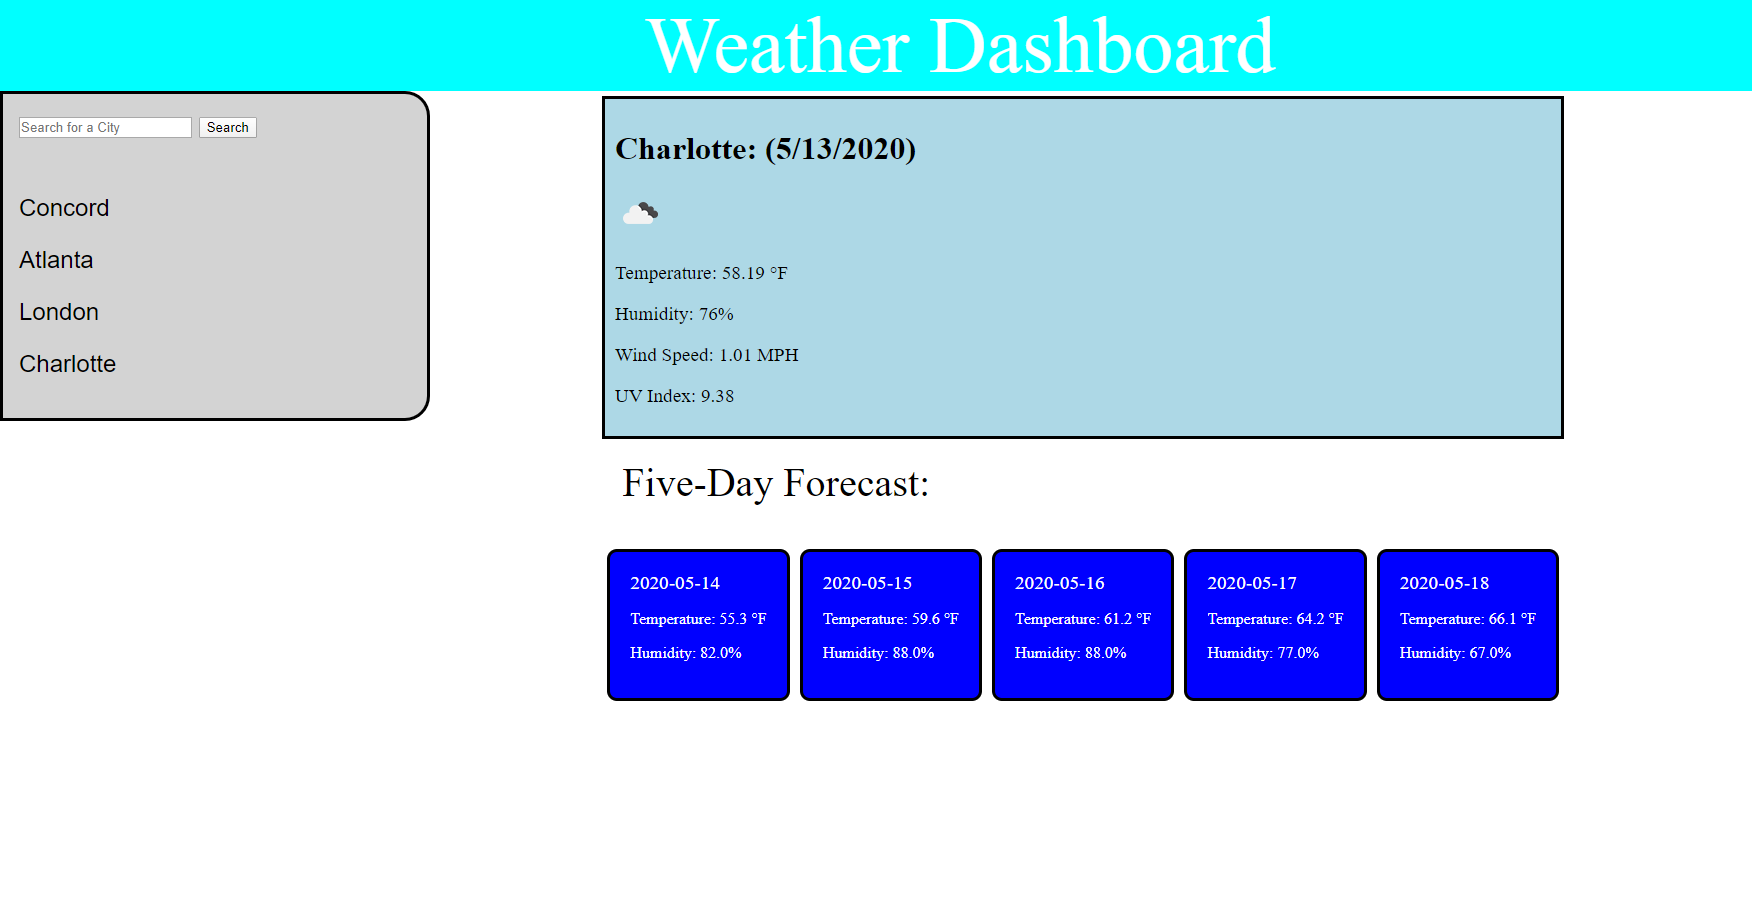
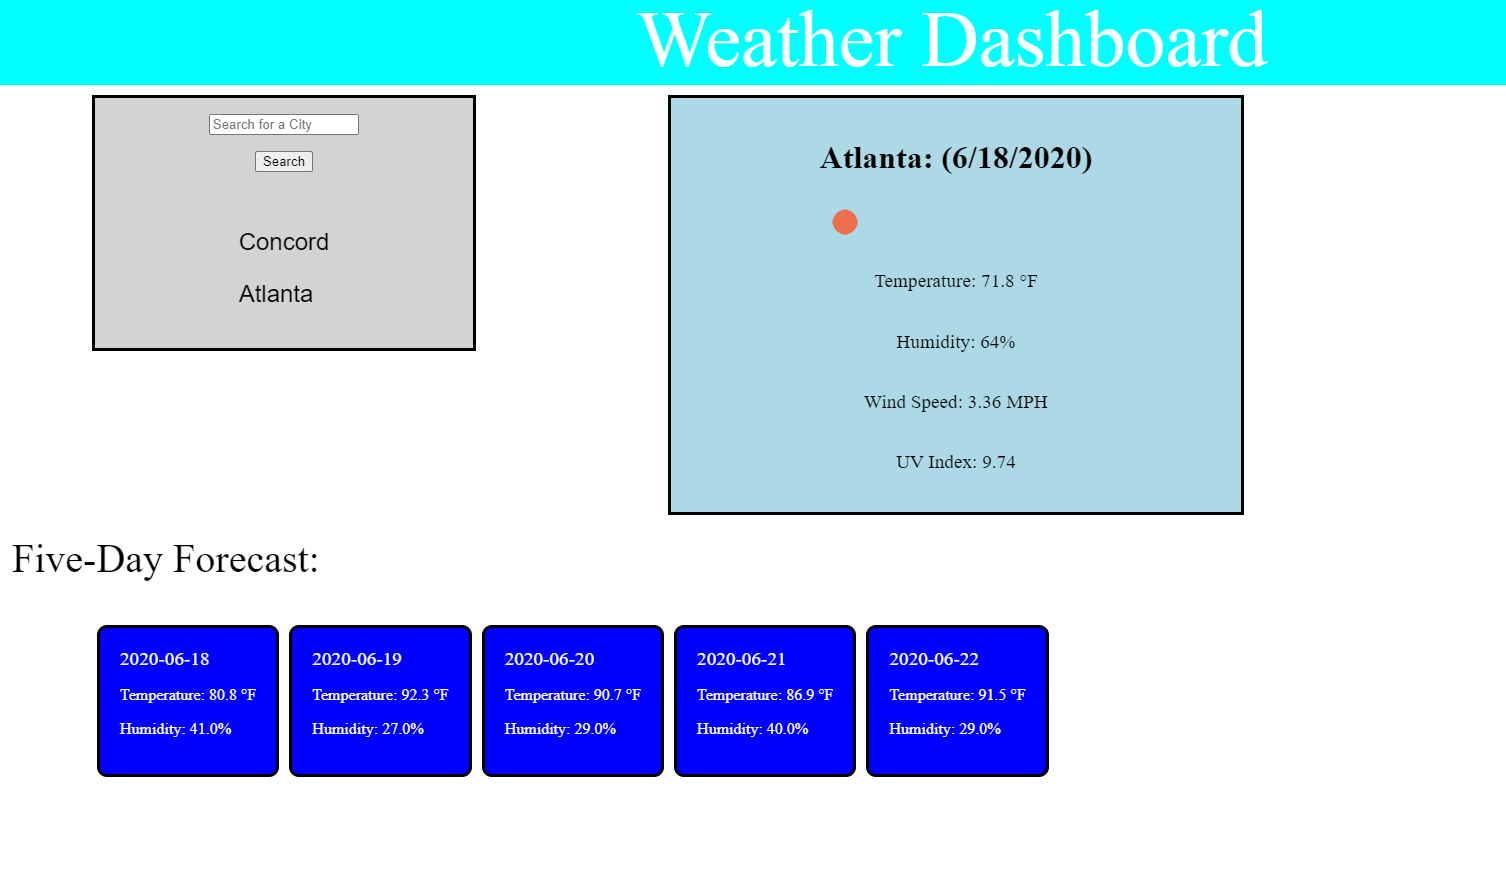
Changed some spacing.

diff --git a/index.html b/index.html
@@ -14,68 +14,66 @@
   <body>
     <!-- Div with header -->
     <div class="header">Weather Dashboard</div>
-        <!-- Left side of page -->
-      <div class="leftSide">
-        <!-- Search for a city form -->
-        <form>
-          <input
-            type="text"
-            name="city"
-            id="city"
-            placeholder="Search for a City"
-          />
-          <button type="submit">Search</button>
-        </form>
-        <!-- Div for where the search history will be -->
-        <div id="history"></div>
-      </div>
-      <!-- ==== Right side of the page ====== -->
-      <div class="rightSide">
-        <!-- div for the current weather -->
-        <div class="weatherCurrent">
-          <div class="cityCurrent"></div>
-            <div class="tempCurrent"></div>
-            <div class="humidityCurrent"></div>
-            <div class="windSpeedCurrent"></div>
-            <div class="uvCurrent"></div>
-        </div>
-          <!-- div for the fiveday forecast -->
-          <div class="fiveDay"></div> <br>
-          <div class="fiveDayBox">
-          <!-- Day 1 div -->
-            <div class="day1Box">
-            <div id="day1Date"></div>
-            <div class="temp5One"></div>
-            <div class="humidity5One"></div>
-            </div>
-            <!-- day 2 div -->
-            <div class="day2Box">
-              <div id="day2Date"></div>
-              <div class="temp5Two"></div>
-              <div class="humidity5Two"></div>
-              </div>
-            <!-- day 3 div -->
-            <div class="day3Box">
-              <div id="day3Date"></div>
-              <div class="temp5Three"></div>
-              <div class="humidity5Three"></div>
-              </div>
-              <!-- day 4 div -->
-              <div class="day4Box">
-                <div id="day4Date"></div>
-                <div class="temp5Four"></div>
-                <div class="humidity5Four"></div>
-                </div>
-                <!-- day 5 div -->
-                <div class="day5Box">
-                  <div id="day5Date"></div>
-                  <div class="temp5Five"></div>
-                  <div class="humidity5Five"></div>
-                  </div>
+    <!-- Left side of page -->
+    <div class="leftSide">
+      <!-- Search for a city form -->
+      <form>
+        <input
+          type="text"
+          name="city"
+          id="city"
+          placeholder="Search for a City"
+          class="input"
+        />
+        <button type="submit">Search</button>
+      </form>
+      <!-- Div for where the search history will be -->
+      <div id="history"></div>
+    </div>
+    <!-- div for the current weather -->
+    <div class="weatherCurrent">
+      <div class="cityCurrent"></div>
+      <div class="tempCurrent"></div>
+      <div class="humidityCurrent"></div>
+      <div class="windSpeedCurrent"></div>
+      <div class="uvCurrent"></div>
+    </div>
 
-          </div>
-          
+    <!-- div for the fiveday forecast -->
+    <div class="fiveDay"></div>
+    <br />
+    <div class="fiveDayBox">
+      <!-- Day 1 div -->
+      <div class="day1Box">
+        <div id="day1Date"></div>
+        <div class="temp5One"></div>
+        <div class="humidity5One"></div>
       </div>
+      <!-- day 2 div -->
+      <div class="day2Box">
+        <div id="day2Date"></div>
+        <div class="temp5Two"></div>
+        <div class="humidity5Two"></div>
+      </div>
+      <!-- day 3 div -->
+      <div class="day3Box">
+        <div id="day3Date"></div>
+        <div class="temp5Three"></div>
+        <div class="humidity5Three"></div>
+      </div>
+      <!-- day 4 div -->
+      <div class="day4Box">
+        <div id="day4Date"></div>
+        <div class="temp5Four"></div>
+        <div class="humidity5Four"></div>
+      </div>
+      <!-- day 5 div -->
+      <div class="day5Box">
+        <div id="day5Date"></div>
+        <div class="temp5Five"></div>
+        <div class="humidity5Five"></div>
+      </div>
+    </div>
 
     <script src="./Assets/script.js"></script>
   </body>

diff --git a/Assets/style.css b/Assets/style.css
@@ -12,47 +12,53 @@ font-size: 5rem;
 }
 .leftSide {
     background-color: #d3d3d3;
-    margin-right: 1%;
+    margin-right: 10%;
     float: left;
-    border-top-right-radius: 25px;
-    border-bottom-right-radius: 25px;
+    margin-top: 10px;
     font-family: Arial, Helvetica, sans-serif;
     font-size: 1.5rem;
-    padding-right: 8%;
     display: inline-block;
     border-color: black;
     border-style: solid;
+    margin-left: 100px;
     display: flex;
     flex-direction: column;
+    align-items: center;
     width: 20%;
 }
 form {
     padding: 1rem;
+    display: flex;
+    flex-direction: column;
+    align-items: center;
+}
+.input {
+    width: 85%;
+    margin-bottom: 1rem;
 }
 #history {
     padding: 1rem;
 }
-.rightSide {
-    display: inline-block;
-    padding-left: 8%;
-    padding-right: 8%;
-    display: flex;
-    flex-direction: column;
-}
+
 .weatherCurrent {
-    margin-top: 5px;
+    margin-top: 10px;
     border-color: black;
     border-style: solid;
     background-color: lightblue;
     padding: 1%;
-    width: 40%;
+    width: 30%;
+    display: flex;
+    flex-direction: column;
+    align-items: center;
+    margin-left: 20rem;
 }
 .tempCurrent, .humidityCurrent, .windSpeedCurrent, .uvCurrent {
     font-size: 1.2rem;
 }
 .fiveDayBox {
     display: flex;
-    flex-direction: row; 
+    flex-direction: row;
+    margin-left: 100px; 
 }
 .day1Box, .day2Box, .day3Box, .day4Box, .day5Box {
     background-color: blue; 
@@ -72,4 +78,15 @@ form {
     font-size: 40px;
     margin: 20px;
 }
-
+@media (max-width: 850px) {
+    .leftSide {
+        margin-left: 1px;
+        margin-right: 2%;
+    }
+    .weatherCurrent {
+        margin-left: .5rem;
+    }
+    .fiveDayBox {
+        margin-left: 1px;
+    }
+}
